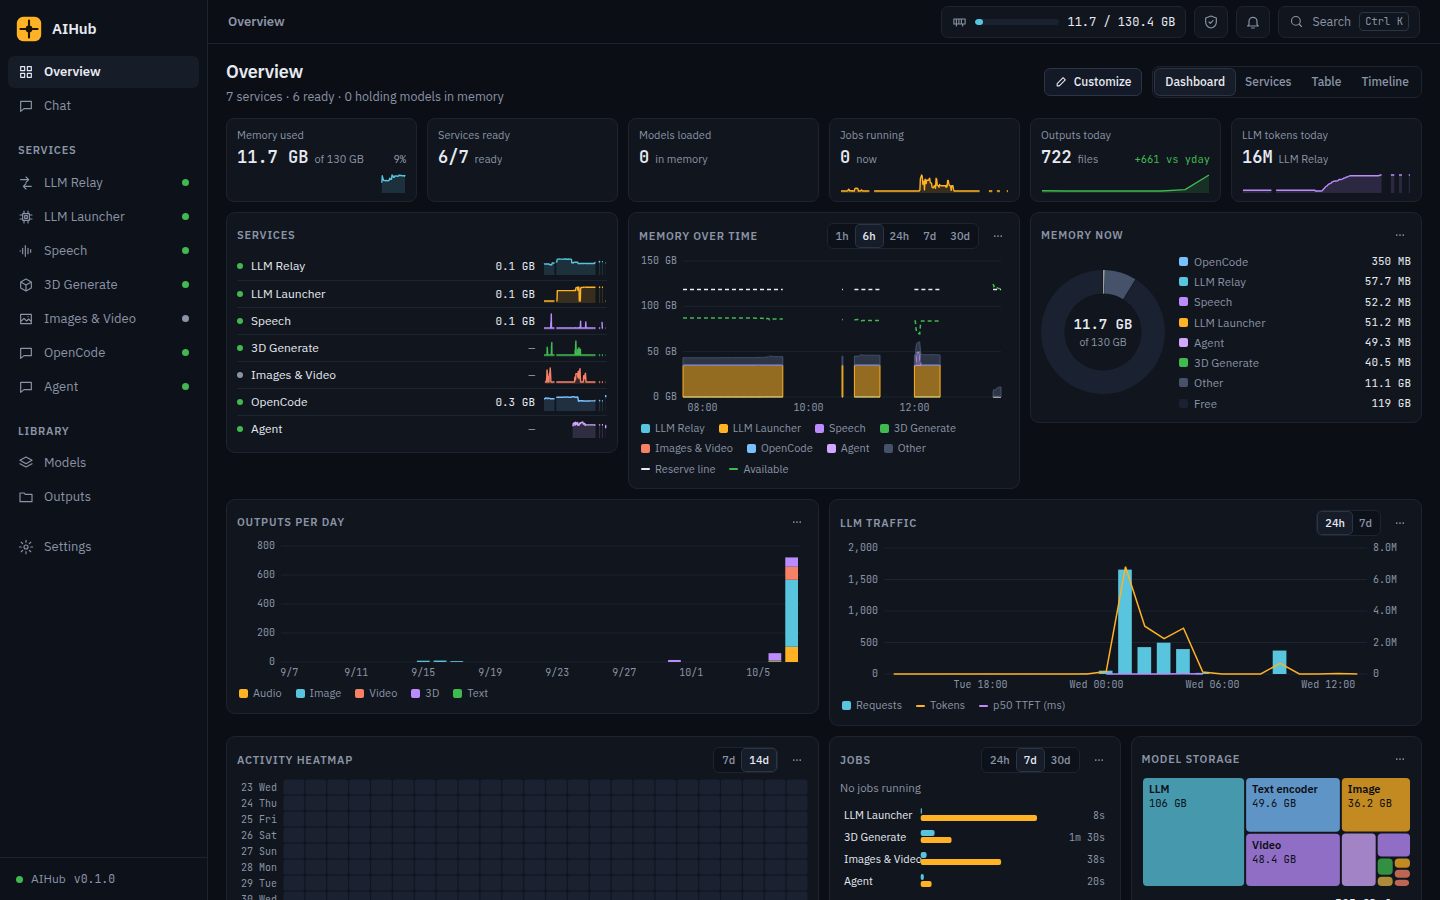
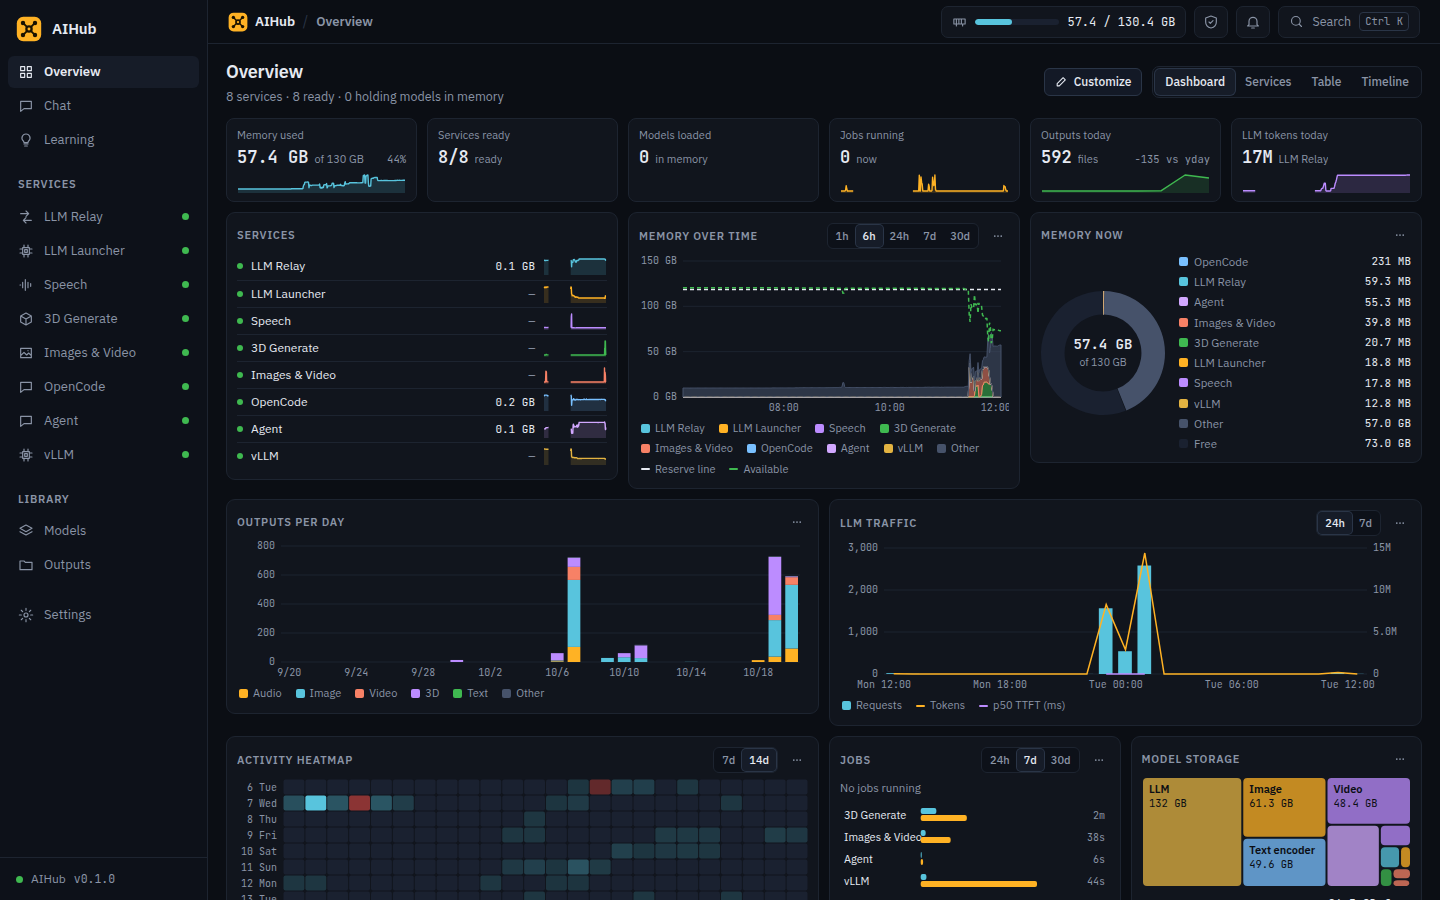
AIHub (docs): README screenshots of the new look: the Overview, a chat that makes a picture and then a 3D model with its activity fold open, a parameter card, an edit, and the Learning page; text for picture to 3D, the vllm mod, preferences and learning, and today's eval numbers

diff --git a/README.md b/README.md
@@ -3,7 +3,7 @@
 One local web app that runs and controls every AI service on a single machine: local LLMs,
 image and video generation, 3D models, speech, and a chat agent that chains them together.
 
-![The AIHub Overview page: memory used, services ready, outputs and LLM tokens today, memory over time, outputs per day and LLM traffic charts](docs/assets/overview.png)
+![The AIHub Overview page: memory used, services ready, outputs and LLM tokens today, memory over time and memory now by service, outputs per day, LLM traffic, an activity heatmap, jobs and model storage](docs/assets/overview.png)
 
 AIHub is a small FastAPI server (the *hub*) on `127.0.0.1:7000` in front of a set of **mods**.
 A mod is one AI service in its own folder under `services/`, running as its own process, with its
@@ -21,10 +21,11 @@ where the services' Python and ROCm stacks conflict and can't share one environm
 | LLM Relay (`relay`) | 4000 | An OpenAI-compatible endpoint in front of every LLM (local and remote), with routing and usage analytics |
 | LLM Launcher (`lcpp`) | 7710 | Starts and manages llama.cpp model servers and publishes them to the relay |
 | Speech (`tts`) | 5040 | Text to speech with Breeze TTS 2 and Kokoro, including voice cloning and voice design |
-| 3D Generate (`gen3d`) | 5050 | Text to 3D meshes, named parts and game rigs (Cube3D and CubePart) |
+| 3D Generate (`gen3d`) | 5050 | 3D models from a picture (TRELLIS.2, Hunyuan3D 2.1, SAM 3D for people and objects) or from text (Cube3D), plus named parts and game rigs |
 | Images & Video (`comfy`) | 5070 | ComfyUI workflows for text to image, image edits and video, as reusable workflow packs |
 | OpenCode (`opencode`) | 4096 | The OpenCode agent server, behind the relay |
-| Agent (`agent`) | 5100 | The chat agent: asks when a choice is missing, shows settings for approval, and chains outputs |
+| Agent (`agent`) | 5100 | The chat agent: asks when a choice is missing, shows settings for approval, chains outputs, and learns how you like things done |
+| vLLM (`vllm`) | 5101 | Serves Hugging Face models with vLLM, one profile at a time, and publishes them to the relay |
 
 Around the mods, the hub provides:
 
@@ -39,17 +40,37 @@ Around the mods, the hub provides:
 
 ### The chat agent
 
-![A chat in AIHub: the agent made an image of a robot toy, then a 3D model from it, shown as four views with View in 3D and Rig buttons, and offers next steps](docs/assets/chat-image-to-3d.png)
+![A chat in AIHub: asked for a 3D teapot, the agent made a picture first and then a 3D model from it with TRELLIS.2. The open activity fold lists each step and its time, a strip shows both outputs, and the 3D model card shows four views with a View in 3D button](docs/assets/chat-picture-to-3d.png)
 
 The Chat page talks to the agent mod, a Claude-Code-style loop written for AIHub. Ask for
-something ("make an image of a robot toy, then turn it into a 3D model") and it picks the tools, asks
-with a question card when a choice is missing, and shows a parameter card you approve or edit before
-anything runs on the GPU. Each result card has buttons for the obvious next step (animate, edit, make
-3D, remove background), and later turns can refer back to earlier outputs.
+something ("make a 3D model of a ceramic teapot, picture first") and it picks the tools and chains
+them, one output feeding the next. Each turn folds into one tidy line ("Ran 2 tools · 3m 47s") that
+opens into its steps, with the outputs in a strip underneath. Result cards have buttons for the
+obvious next step (animate, edit, make 3D, remove background, describe), and later turns can refer
+back to earlier outputs by number.
 
-On a 30-task scripted evaluation run three times, Gemma 4 31B passed 26 of 30 tasks every time (87%)
-and the local Gemma 4 26B passed 24 (80%). Details and the remaining failures:
-[docs/agent-eval.md](docs/agent-eval.md).
+<p>
+  <img src="docs/assets/chat-card.png" width="49%" alt="A parameter card docked above the composer: Generate image, with the prompt, the workflow chosen for these inputs (Z-Image Turbo), preset, a 16:9 aspect and megapixels, and Run and Cancel buttons">
+  <img src="docs/assets/chat-edit.png" width="49%" alt="A chat where the agent removed the red headband from a samurai figure: the edited picture with Animate, Edit, Remove background, Make 3D, Describe and Use as reference buttons, and thumbs on the reply">
+</p>
+
+Before anything runs on the GPU, a parameter card docks above the composer (left). The agent
+fills in what it can, picks a workflow or 3D engine that can actually do the job (picture to 3D,
+text to 3D, an edit with reference pictures), and you change anything before pressing Run. Image
+edits run at full quality unless you ask for a quick draft (right).
+
+![The Learning page's Harness tab: the agent's instruction versions, each with its date, the files it changed, its eval gate result (passed or failed against the current version), notes on why, and Diff and Activate buttons](docs/assets/learning.png)
+
+The agent learns from use. When you change the same setting on cards in two chats, it offers to
+remember it, and from then on cards come pre-filled and marked "from your preferences". Thumbs on
+replies and outputs count too. Overnight, or after an hour without a chat, it reviews recent chats,
+tries changes to its own instructions, replays your chats under them, and keeps only what passes
+its evaluation. The Learning page shows all of it, and any version can be rolled back with one
+click. Each chat has a switch to leave it out.
+
+On a 46-task scripted evaluation run three times on MiniCPM-V 4.7, the agent passed 85% of tasks
+every time, and live runs that really generate (a local edit, picture to 3D with each engine, text
+to 3D) all pass. Details and the remaining failures: [docs/agent-eval.md](docs/agent-eval.md).
 
 ## Requirements
 
@@ -123,6 +144,7 @@ flowchart LR
     gen3d["gen3d :5050"]
     comfy["comfy :5070<br/>ComfyUI"]
     opencode["opencode :4096"]
+    vllm["vllm :5101"] --> relay
   end
   agent -- "tool calls" --> Hub
 ```
@@ -177,16 +199,16 @@ uv run pytest                                          # the hub, including the 
 cd services/agent && .venv/bin/python -m pytest        # each mod has its own suite
 ```
 
-The hub's suite has 495 tests, and the mods' suites add 522 more. Fakes stand in for
+The hub's suite has 526 tests, and each mod has its own suite on top. Fakes stand in for
 real mods and models, so none of them need a GPU. The build plan, with every step and its checks,
 is [docs/backend-plan.md](docs/backend-plan.md). The UI is plain ES modules on React with no build
 step (`web/`), and [docs/design-brief-ui.md](docs/design-brief-ui.md) describes it.
 
 ## Status
 
-A personal project, in daily use on the machine it was built for. As of October 2026, all 16 phases
-of the plan are built: the hub, the seven mods, the tool catalog and MCP endpoint, the chat agent,
-sessions, and logs and runtime state kept inside the project folder. Known gaps:
+A personal project, in daily use on the machine it was built for. As of October 2026, the plan is built
+through Phase 22: the hub, the eight mods, the tool catalog and MCP endpoint, the chat agent and its
+learner, sessions, and logs and runtime state kept inside the project folder. Known gaps:
 
 - The GPU mods assume a Strix Halo with ROCm and the kyuz0 container image; other hardware would
   need its own images and model choices.

diff --git a/docs/structure.md b/docs/structure.md
@@ -9,7 +9,7 @@ What is in the repo **today**, and where each planned piece goes. The full targe
 | File / folder | Status | Purpose |
 | :--- | :--- | :--- |
 | `README.md` | ✅ | The front page: what AIHub is, requirements, quickstart, commands, configuration, adding a mod |
-| `docs/assets/` | ✅ | Images for the README (Overview page, a chat that makes an image and then a 3D model) |
+| `docs/assets/` | ✅ | Images for the README (Overview page; chats: a picture then a 3D model, a parameter card, an edit; the Learning page) |
 | `CLAUDE.md` | ✅ | Short rules for agents, true today |
 | `.claude/skills/aihub/` | ✅ | Project skill: how to work on AIHub (doc map, invariants, step workflow) |
 | `.claude/skills/plan/` | ✅ | Project skill: how to write and amend plans in this repo's format |
